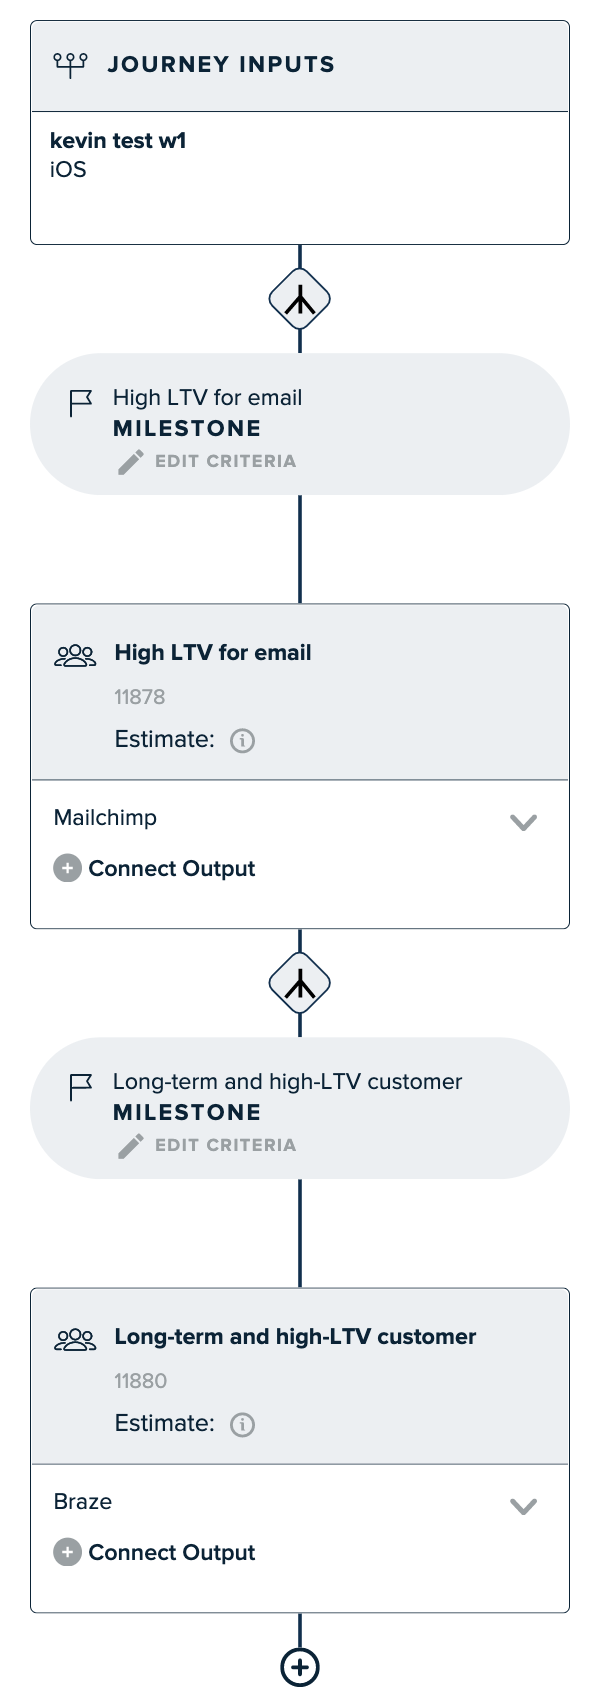
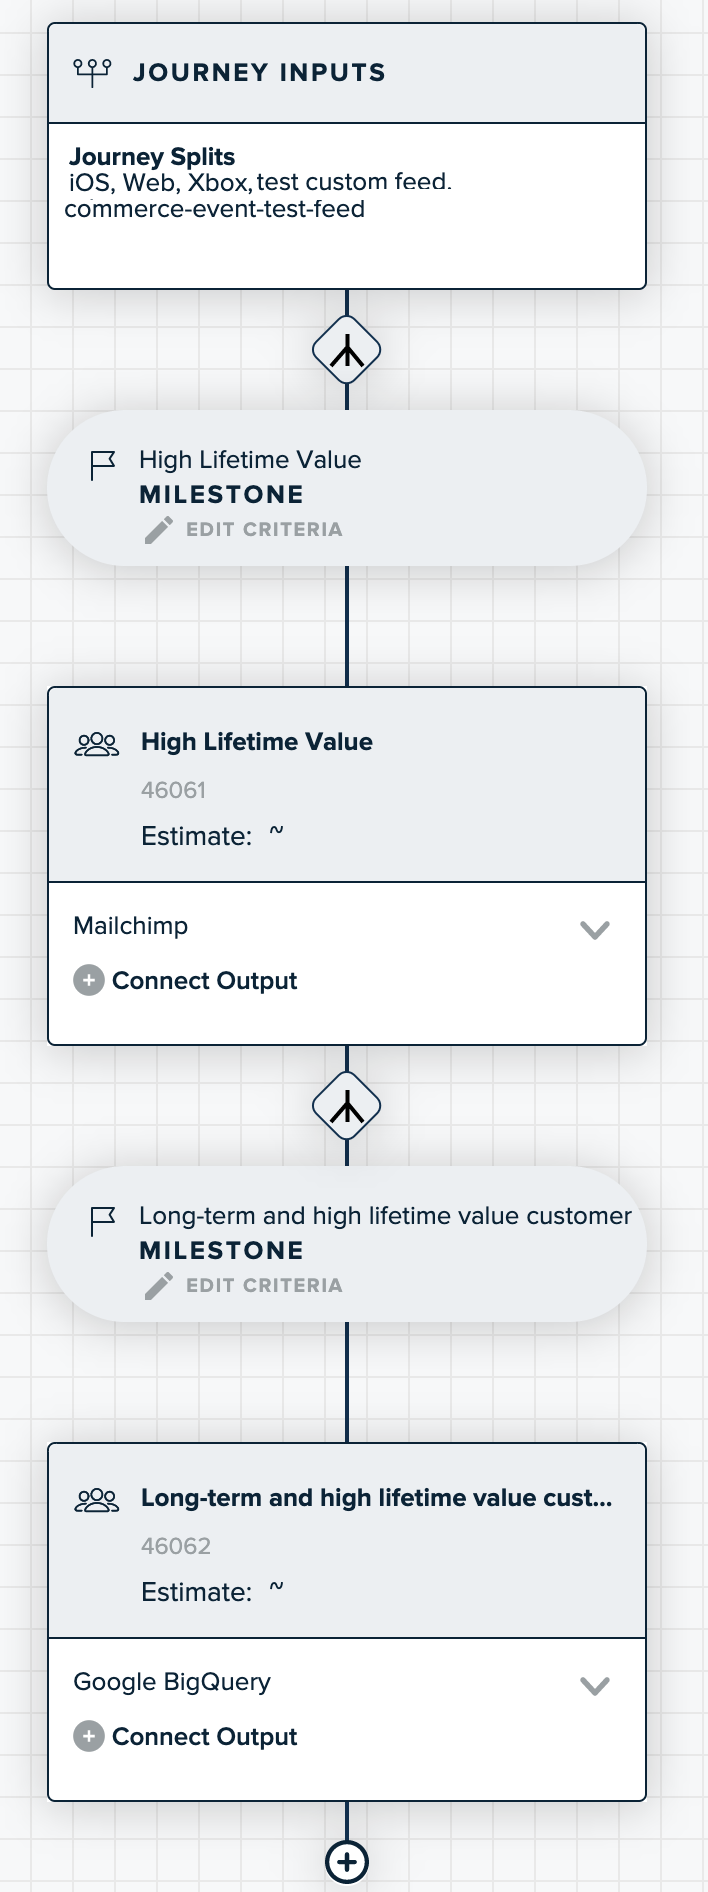
Updates for input workspace changes in audience (#2210)
* updates for input workspace

* changes to ui for journey and aud

diff --git a/src/pages/guides/platform-guide/audiences/real-time/index.md b/src/pages/guides/platform-guide/audiences/real-time/index.md
@@ -29,7 +29,7 @@ Audiences are separated into **Single Workspace**, **Multi Workspace**, and **Sh
 
 Each audience that you create provides an estimated audience size immediately, so that you don't have to wait for the audience calculation to complete. Once an audience has at least one active connection, mParticle begins calculating the real size, and shows an estimate until the calculation is complete.
 
-![Audience details showing estimator](/images/audiences/estimator.png)
+<img src="/images/audiences/estimator.png" alt="audience detail panel showing estimator" width="250"> 
 
 To estimate the audience size quickly, mParticle samples the total number of users. 
 
@@ -43,6 +43,25 @@ In some cases, you may see different symbols instead of an estimated size:
 
 * The symbol **~** indicates that the population is too small relative to the overall user base, which prevents a meaningful calculation. For example, imagine a company that has 100 million users. If you create an audience that will have 13,000 members when fully calculated, it's likely that the random sample won't encounter enough members to be represented in the estimate. This symbol doesn't mean your audience will have no members, just that it will have so few members relative to the total number of users that estimation isn't possible. 
 * If an audience can't be estimated for a technical reason, you'll see a red triangle with an exclamation point instead of an estimated size. For example, if the input is not configured correctly, you'll see this warning sign.
+
+## Workspaces, inputs, and audience criteria
+
+Every audience is populated from data sources that you specify when you create the audience:
+
+* The workspaces that you select become the data sources for user-based criteria types.
+* The inputs you select become the data sources for event-based criteria types.
+
+| Criteria      | Criteria Type | Data Source |
+| :------------ | :------------ | :---------- |
+| Users         |  User Based   | Workspace   |
+| Crashes       |  User Based   | Workspace   |
+| Installs      |  User Based   | Workspace   |
+| Uninstalls    |  User Based   | Workspace   |
+| Upgrades      |  User Based   | Workspace   |
+| Events        |  Event Based  | Input       |
+| Ecommerce     |  Event Based  | Input       |
+| Sessions      |  Event Based  | Input       |
+| Screen views  |  Event Based  | Input       |
 
 ## Create a real-time audience
 
@@ -82,7 +101,7 @@ To create an audience:
     If no <b>External Name</b> is entered, the <b>External Name</b> will be the same as the <b>Audience Name</b>.
     </aside>
 
-    ![screenshot of create new audience dialog](/images/Platform-Update-Audiences-Create-New-Audience-042019.png)
+    ![screenshot of create new audience dialog](/images/audiences/new-audience.png)
 
 3. Under **Inputs**, check all the Platforms and Feeds whose data you want to use to define the audience.
 4. Click the **Create** button. The screen refreshes with the new Audience added to the list of audiences and the **Audience Details** screen shown. If you are ready to define the audience, continue in the next section. Otherwise, click **Save as Draft**.
@@ -108,7 +127,7 @@ The scope of data that is evaluated by your audience criteria is dependent upon:
 
 To add criteria to the audience definition:
 
-![audience definition](/images/audience-definition.png)
+![audience definition](/images/audiences/audience-definition.png)
 
 * You can add one or more criteria and logic either between two different criteria (and, or) or you can exclude users from an audience with criteria (exclude).
 * After you define a criteria with the real-time audience builder a number displays that represents the estimated audience size:

diff --git a/src/pages/guides/platform-guide/journeys/overview/index.md b/src/pages/guides/platform-guide/journeys/overview/index.md
@@ -32,7 +32,7 @@ The following diagram shows a simple journey with two milestones:
 
 <img alt="journey with one milestone" src="/images/journeys/one-path.png" width="250">
 
-In this journey, all high-value customers are sent an email, and then all of the high-value customers who are also long-term customers are sent an SMS.
+In this journey, all high-value customers are sent an email, and then all of the high-value customers who are also long-term customers are sent to Google BigQuery.
 
 Notice the following:
 
@@ -91,21 +91,17 @@ In this example, retailers trigger the next best step based on a user’s lifeti
 
 Each audience that you create in a journey provides an estimated audience size immediately, so that you don't have to wait for the audience calculation to complete. Once an audience has at least one active connection, audiences and all parent audiences in same path begin calculating the real size. When an audience begins calculating it no longer shows the estimated size.
 
+![image of an estimated audience from the milestone](/images/journeys/est-milestone.png)
+
 To estimate the audience size quickly, mParticle samples the total number of users. 
 
-You see the estimated size of the audience with all criteria applied (as shown in the previous image). Estimated audience size per criteria is also displayed on the milestone:
-
-![image of an estimated audience from the milestone](/images/journeys/est-milestone.jpg)
+You see the estimated size of the audience with all criteria applied (as shown in the previous image). Estimated audience size per criteria is also displayed on the milestone.
 
 Use the audience estimator's immediate feedback to adjust criteria definitions and parameters if needed:
 
 * The audience size is much bigger or much smaller than expected.
 * Your team wants to explore different ways to target your customers.
-* You see a big drop-off of users between milestones and want to target an intermediary moment in the journey, to nudge more users toward your conversion goal. For example, in the following journey, each successive audience has a very large drop-off that you might want to target:
-
-    ![image of a journey with large drop-off](/images/journeys/est-overall.jpg)
-
-After the audience has been calculated, the display changes to show the actual audience size.
+* You see a big drop-off of users between milestones and want to target an intermediary moment in the journey, to nudge more users toward your conversion goal. 
 
 In some cases, you may see different symbols instead of an estimated size:
 
@@ -119,6 +115,6 @@ In some cases, you may see different symbols instead of an estimated size:
  * Activated audiences count toward your account limit. 
  * Parent audiences are calculated, but do not consume additional real-time audience credits.
 
-To view the number of audiences available to you, in mParticle go to **Audiences > Journeys > Settings**:
+To view the number of audiences available to you, in mParticle go to **Audiences > Journeys** to display the list of journeys. The number of activated and available audiences is displayed under the New Journey button:
 
-<img alt="journey audience counter" src="/images/journeys/journeys-audience-count.png" width="250">
+<img alt="journey audience counter" src="/images/journeys/journeys-audience-count.png">
